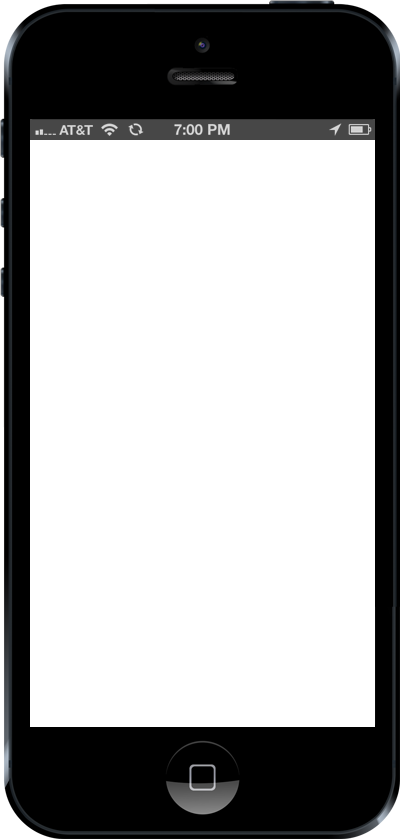
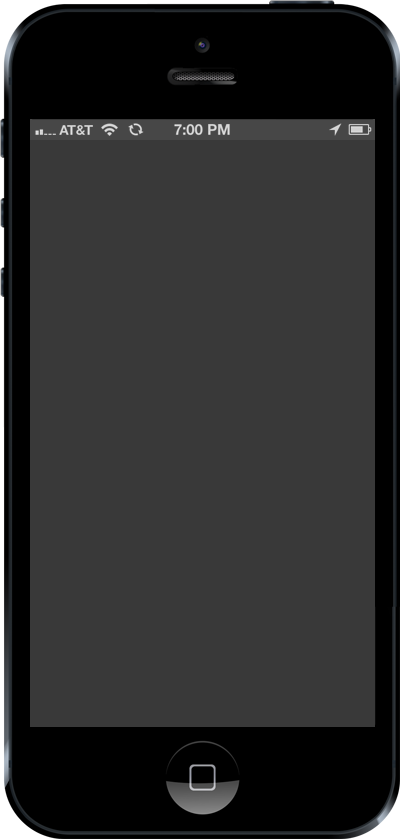
finishing touches

diff --git a/static/style.css b/static/style.css
@@ -3,16 +3,16 @@ body {
     font-family: Helvetica;
     font-size: 15pt;
     text-align: center;
+    background-image: url('bg.jpg');
 }
 .mask {
     position: absolute;
-    left: 630px;
-    width: 100px;
-    height: 700px;
+    left: 375px;
+    width: 25px;
+    height: 550px;
+    top: 120px;
     z-index: 100;
-}
-body, .mask {
-   background-color: whitesmoke;
+    background-color: black;
 }
 h1, h2, h3, h4 {margin: 0; padding: 0; }
 h1 { font-size: 1.1em; }
@@ -33,11 +33,14 @@ p {
 
 /*=============== LAYOUT ===============*/
 
+.title {
+
+}
 #container {
     width: 400px;
     height: 839px;
     position: relative;
-    margin-left: 200px;
+    margin-left: 14%;
 }
 #phone-frame {
     background-color: transparent;
@@ -69,9 +72,9 @@ p {
 }
 .header-bar h1, .header-bar h3 {
     display: inline;
-    width: 54%;
+    width: 57%;
     position: absolute;
-    left: 23%; top: 35%;
+    left: 20%; top: 35%;
     margin: 0;
     text-align: center;
     overflow: visible;
@@ -83,7 +86,7 @@ p {
     text-align: center;
     position: absolute;
     display: inline-block;
-    width: 18%;
+    width: 15%;
     top: 15%;
     border-radius: 5px;
     font-weight: bold;
@@ -94,7 +97,7 @@ p {
     color: #222;
     text-decoration: none;
 }
-.back-button, .home-button {
+.back-button {
     left: 3%;
     padding: 12px 0px;
 }
@@ -102,11 +105,15 @@ p {
     right: 3%;
     padding: 5px 0px;
 }
+.home-button {
+    right: 3%;
+    padding: 12px 0px;
+}
 #content-scroller {
     overflow: auto;
     overflow-x: hidden;
     height: 453px; 
-    width: 450px;
+    width: 370px;
 }
 #content {
     padding: 25px 19px;

diff --git a/playback.php b/playback.php
@@ -6,13 +6,15 @@
 </head>
 
 <body>
-<div class="mask"></div>
+
 <div id="container" class="playback">
+<div class="mask"></div>
     <div id="phone-frame"></div>
     <div id="phone-screen">
         <div class="playhead"></div>
         <div class="header-bar">
             <a class="back-button header-button" onClick="history.go(-1);return false;">Back</a>
+            <a class="home-button header-button" href="index.php">Home</a>
             <h1>
             <span class="h3">Now Playing</span><br>
             Comedy Bang Bang...</h1>

diff --git a/header.php b/header.php
@@ -7,8 +7,8 @@
 
 <body>
 
-<div class="mask"></div>
 <div id="container">
+<div class="mask"></div>
 <div id="phone-frame"></div>
 <div id="phone-screen">
 
